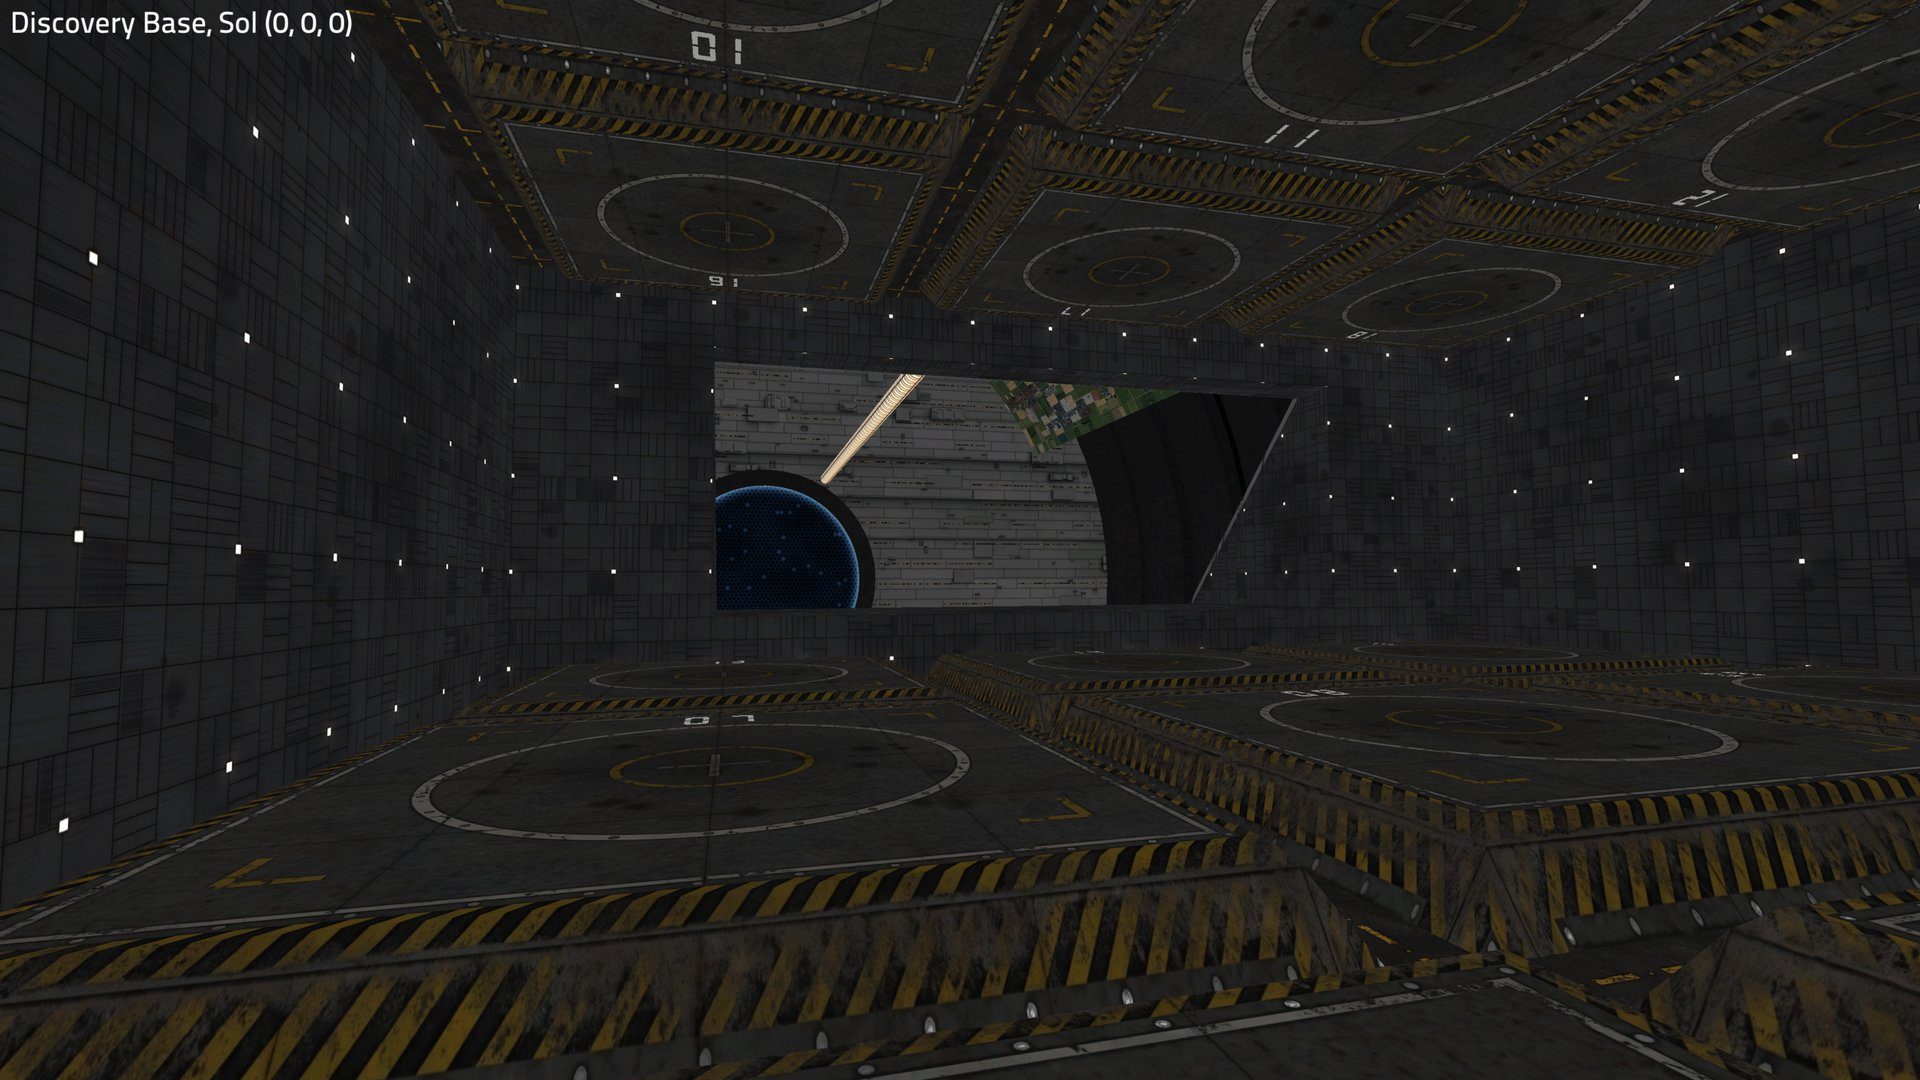
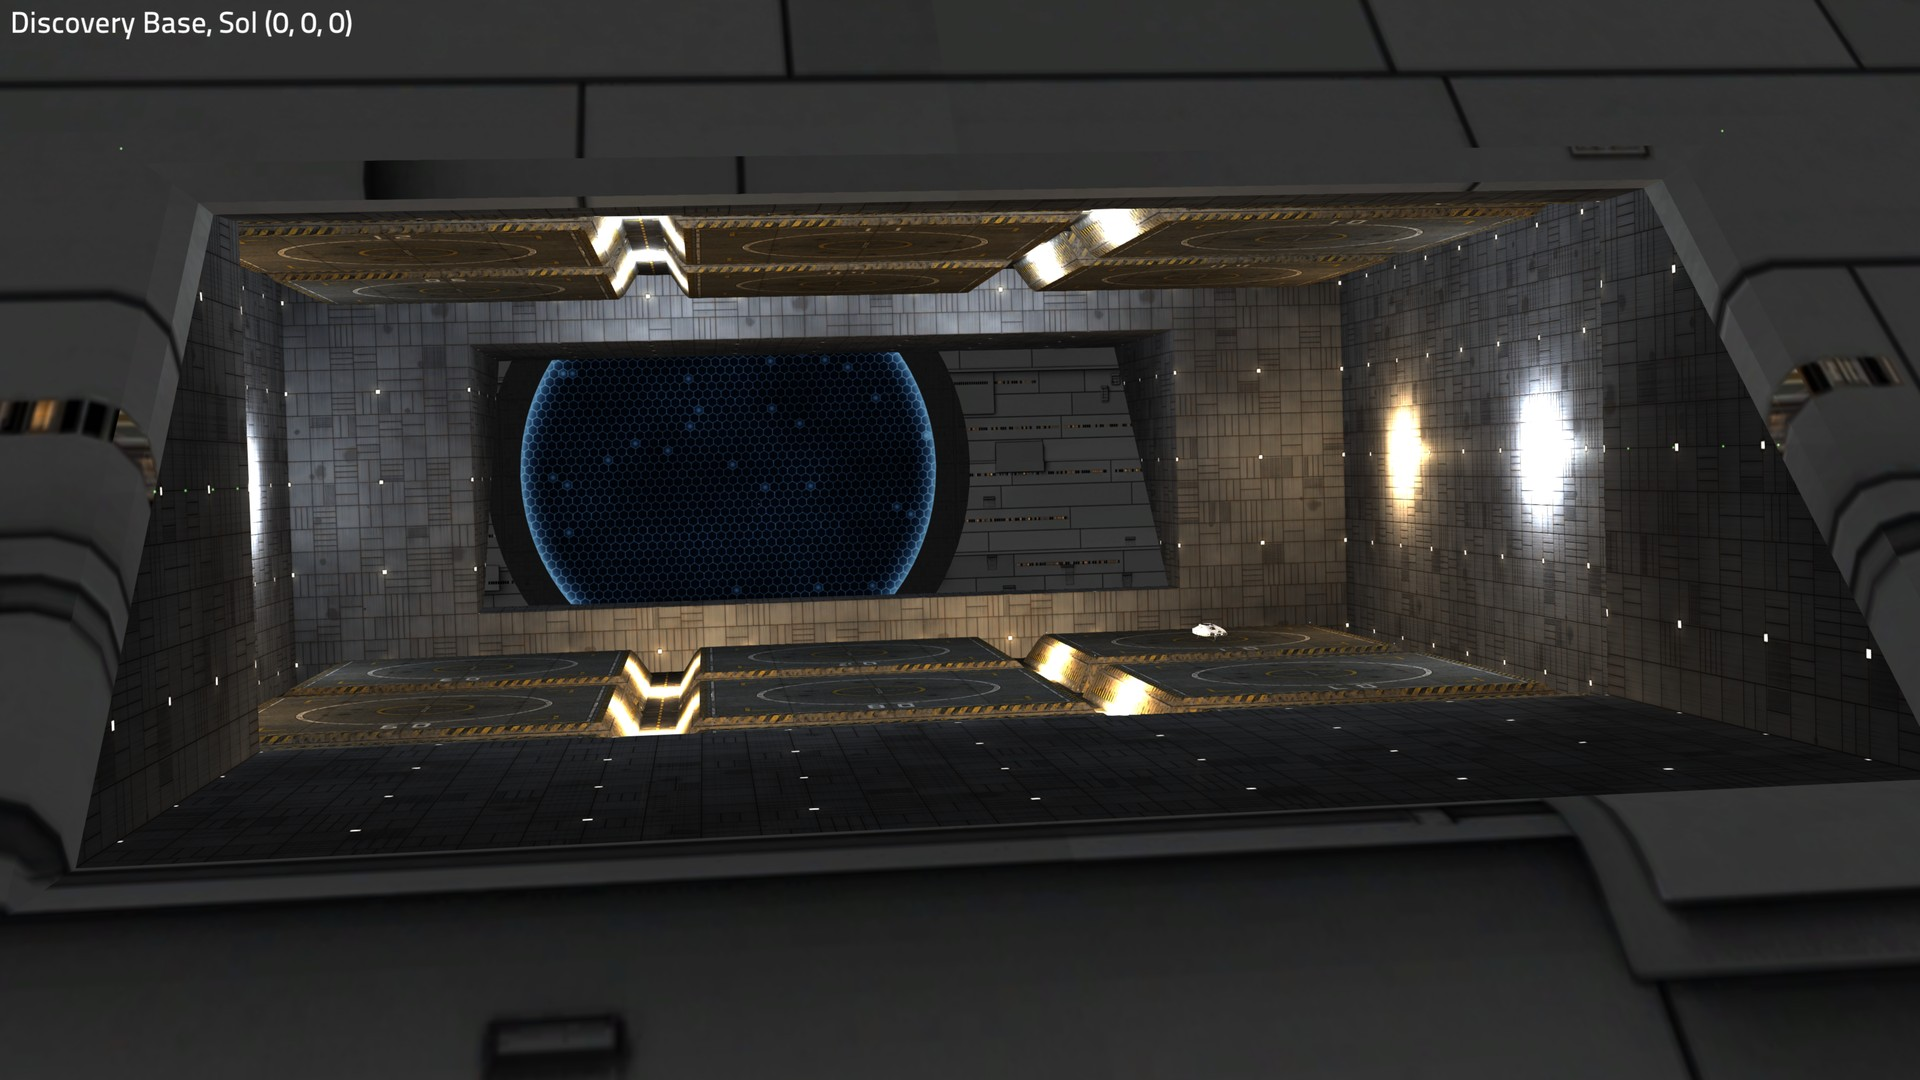
docs(readme): underground asteroid base, new tube station screenshots

diff --git a/README.md b/README.md
@@ -180,7 +180,7 @@ planets and moons without life.
 
 <p>
   <a href=".github/images/screens/tube-station-outside.jpg"><img src=".github/images/screens/tube-station-outside.jpg" width="49%" alt="Tube station from outside"></a>
-  <a href=".github/images/screens/tube-station-docking-hall.jpg"><img src=".github/images/screens/tube-station-docking-hall.jpg" width="49%" alt="The docking hall in the spoke, looking out into the tube"></a>
+  <a href=".github/images/screens/tube-station-docking-hall.jpg"><img src=".github/images/screens/tube-station-docking-hall.jpg" width="49%" alt="The docking hall in the spoke"></a>
 </p>
 <p>
   <a href=".github/images/screens/tube-station-forcefield.jpg"><img src=".github/images/screens/tube-station-forcefield.jpg" width="49%" alt="Forcefield membrane over the tube's end"></a>
@@ -197,6 +197,21 @@ yellow barrier gates. It turns up at random around any world.
 <p>
   <a href=".github/images/screens/cuboct-station-mars.jpg"><img src=".github/images/screens/cuboct-station-mars.jpg" width="49%" alt="Cuboctahedron station orbiting Mars"></a>
   <a href=".github/images/screens/cuboct-station-hangar-entrance.jpg"><img src=".github/images/screens/cuboct-station-hangar-entrance.jpg" width="49%" alt="The slot entrance and approach scaffold"></a>
+</p>
+
+### Underground Asteroid Base
+
+A base dug into an asteroid. On the surface there is only a wide ring with
+a lid in two halves. A 300 m shaft runs down to a hangar underground, where
+a turning floor carries four landing pads. Ships go in one at a time: the
+floor turns a free pad under the shaft, the lid slides open, and you fly
+down. When you leave, the base lifts your ship back up the shaft. AI ships
+wait their turn above the base. It's on Phobos, Deimos and Thebe, and turns up
+at random on asteroids more than 10 km across.
+
+<p>
+  <a href=".github/images/screens/asteroid-base-outside.jpg"><img src=".github/images/screens/asteroid-base-outside.jpg" width="49%" alt="The base's ring and lid on Thebe, seen from above"></a>
+  <a href=".github/images/screens/asteroid-base-hangar.jpg"><img src=".github/images/screens/asteroid-base-hangar.jpg" width="49%" alt="The underground hangar, looking up the shaft"></a>
 </p>
 
 ### Hyperjump Route Planner
